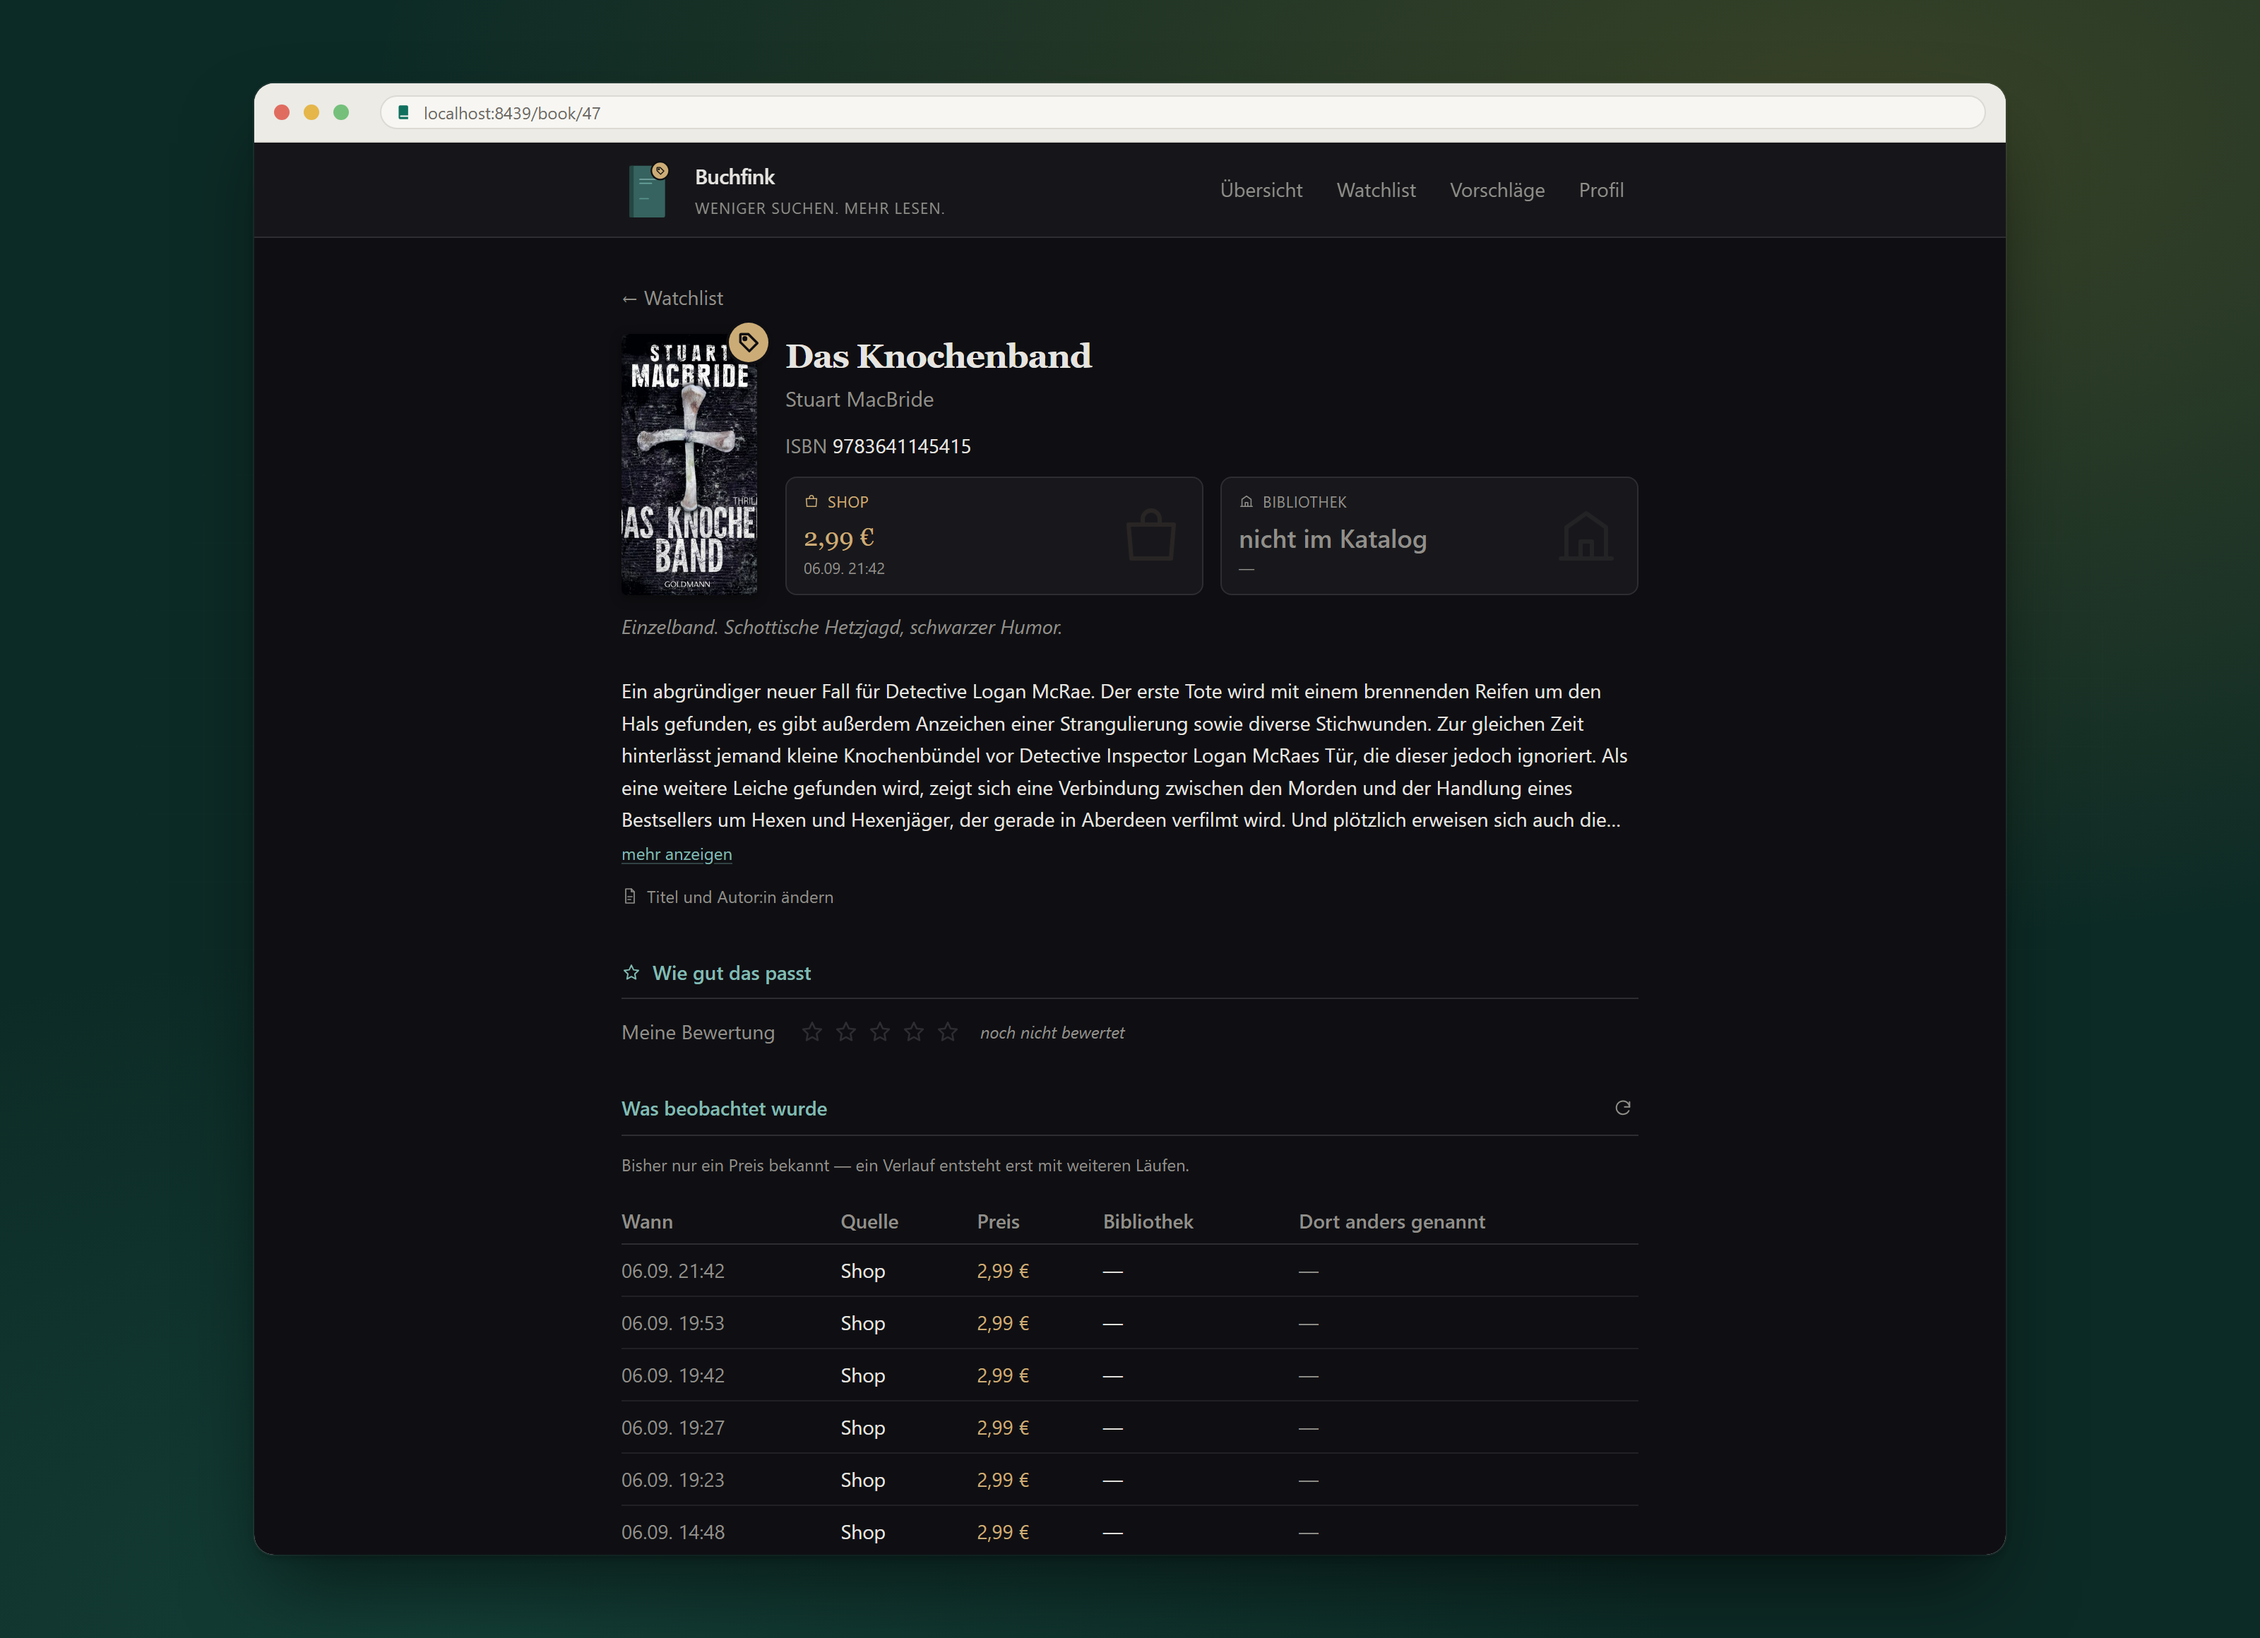
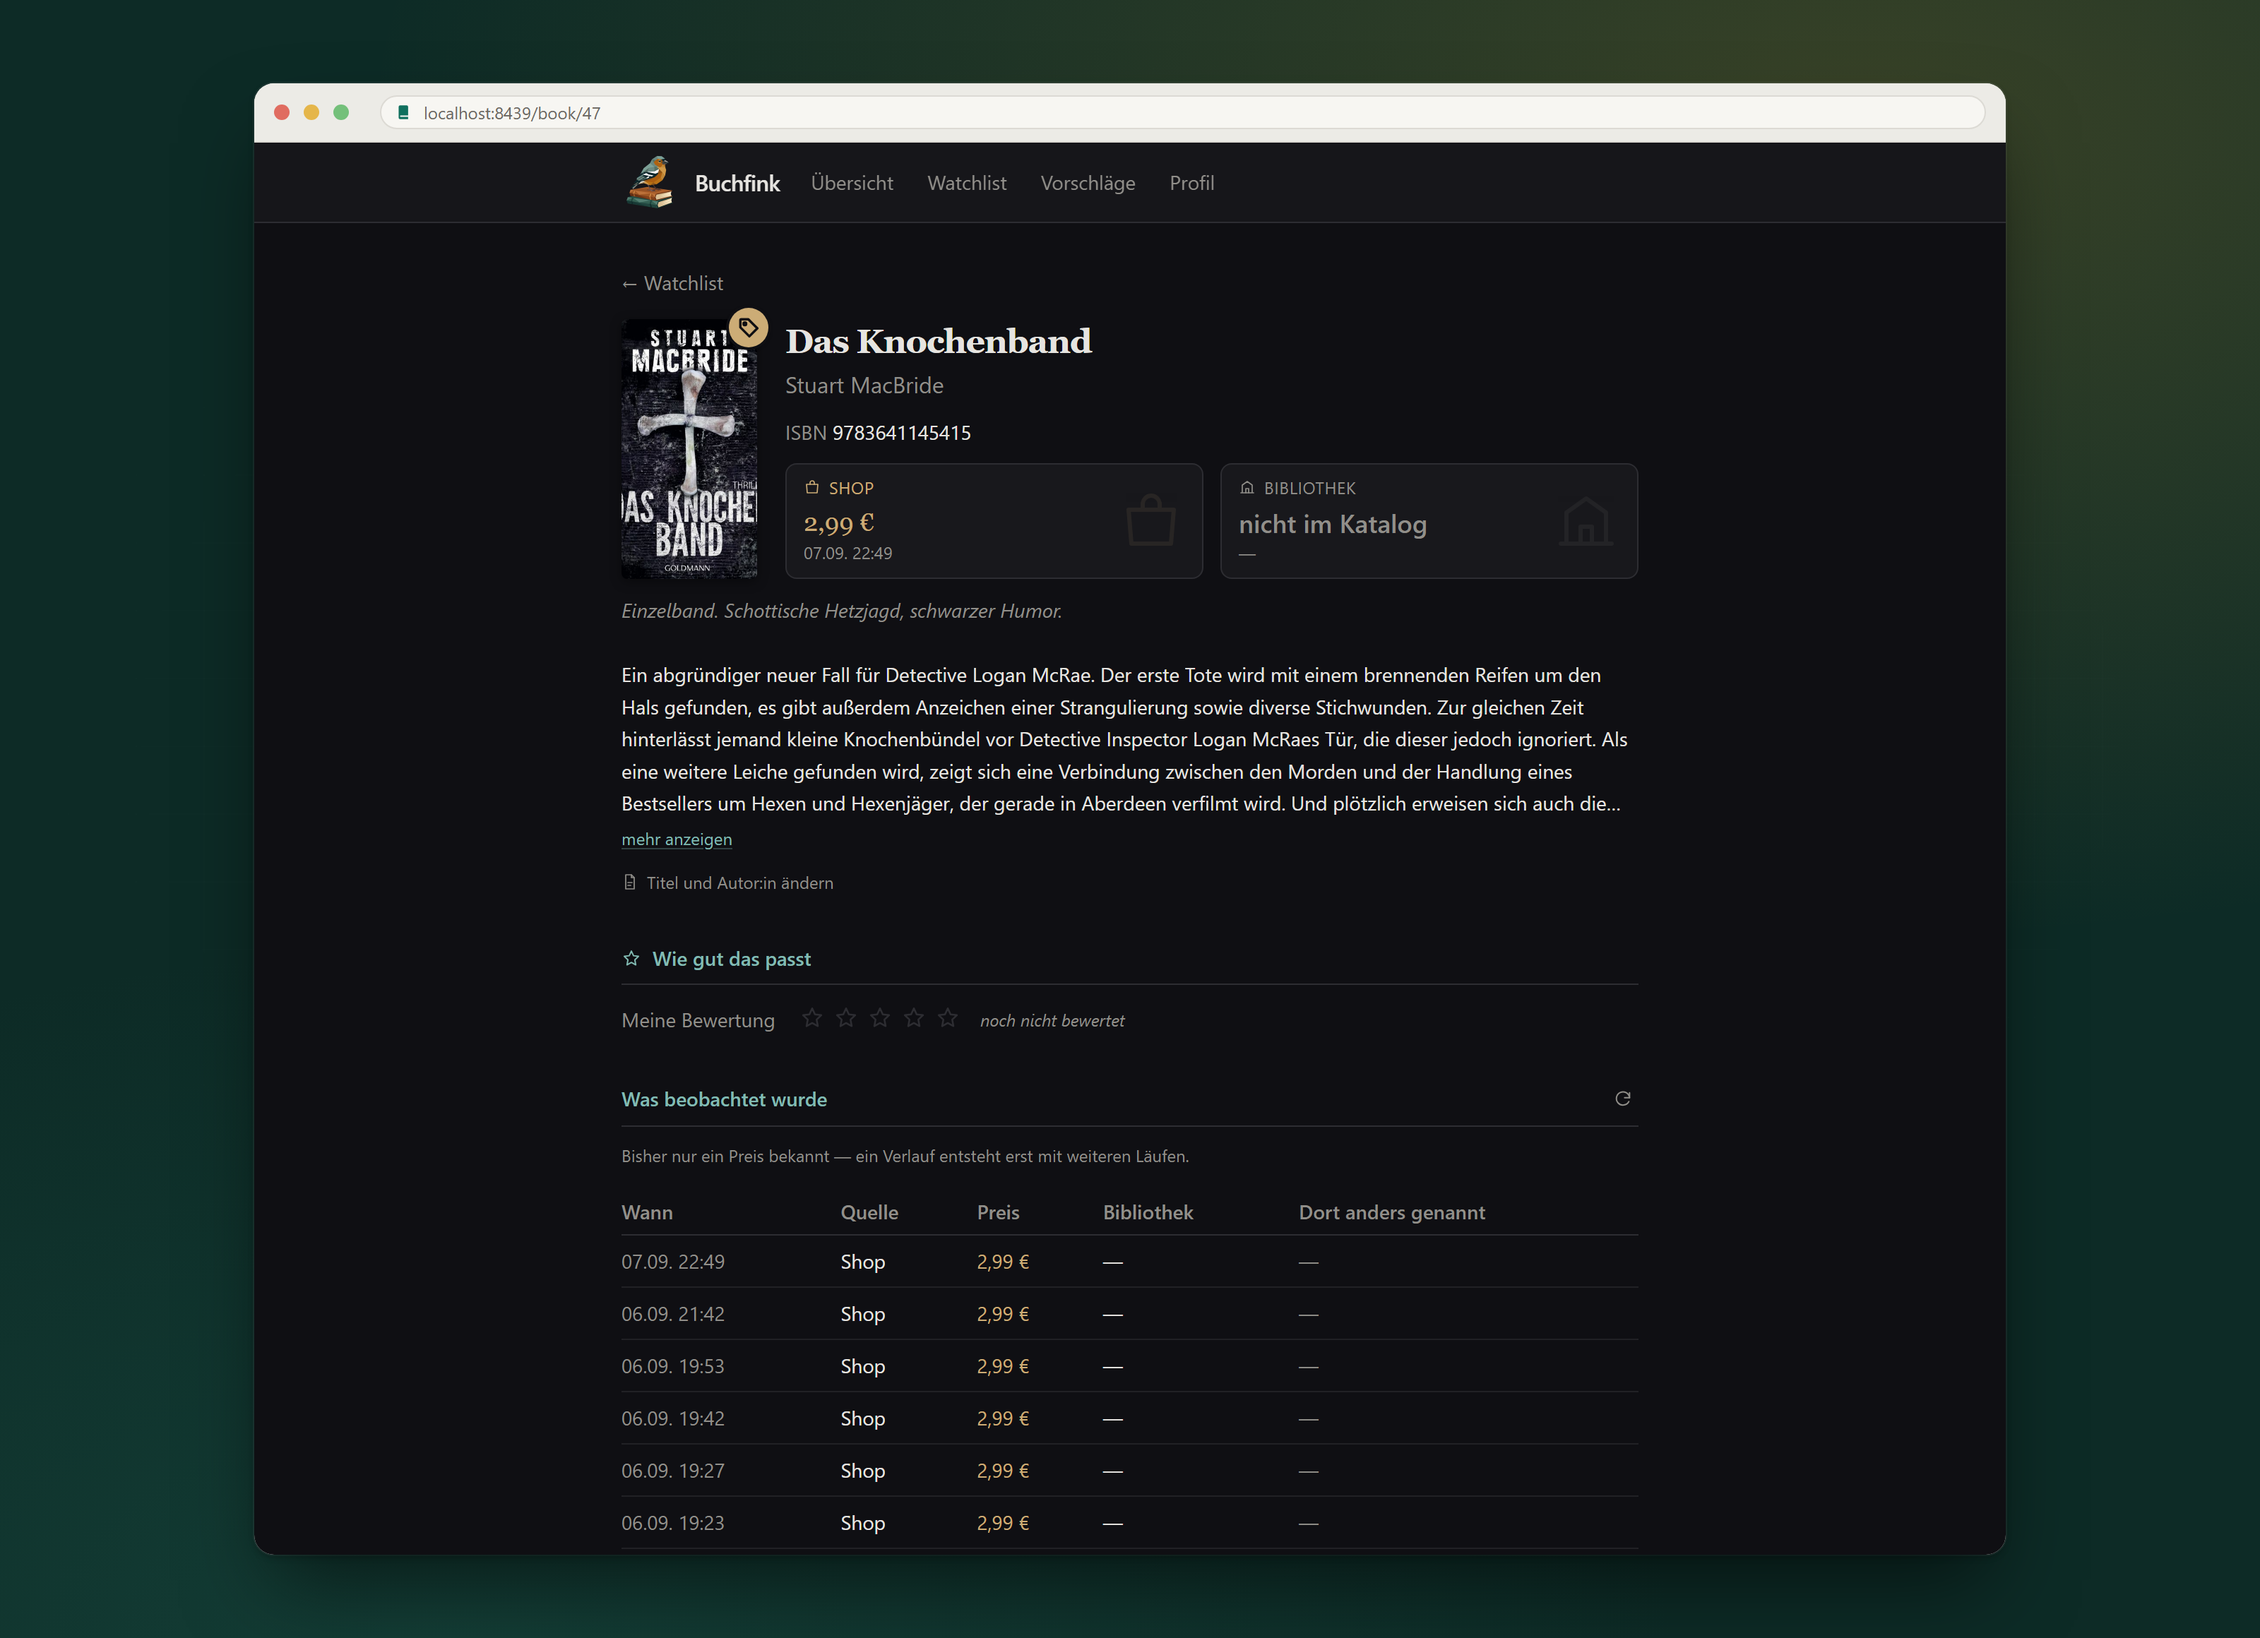
Ein gezeichnetes Titelbild statt eines Screenshots
hero.png (die Vorschlagsseite, aufgenommen von scripts/make_hero.py) weicht
hero.jpg — einem gezeichneten Buchfink, der die drei Schritte des Werkzeugs
zeigt: lesen, ohne zu suchen; kaufen, wenn es sich lohnt; Neues finden, das
passt.

Das Aufnahme-Skript bleibt vollstaendig nutzbar, nur umbenannt und um die
frueher stillschweigend entfernte Szene ergaenzt: make_hero.py ->
make_screenshots.py, die hero-Szene heisst jetzt vorschlaege (nach der
Seite, die sie zeigt, wie buchseite). Beide Szenen frisch aufgenommen zur
Kontrolle.

diff --git a/scripts/vorschlaege.html b/scripts/vorschlaege.html
@@ -2,14 +2,15 @@
 <html lang="de">
 <head>
 <meta charset="utf-8">
-<title>Titelbild</title>
+<title>Vorschläge</title>
 <!--
-  Die Szene für das Titelbild der README. Gebaut statt erzeugt: so ist sie
-  scharf in jeder Größe, zeigt die *echte* Oberfläche und lässt sich neu
-  aufnehmen, wenn sich die Seite ändert.
+  Die Szene für den Screenshot der Vorschlagsseite. War lange das Titelbild
+  der README, aufgenommen mit scripts/make_hero.py; das Titelbild ist jetzt
+  eine Illustration (docs/bilder/hero.jpg). Die Szene selbst tut weiter ihren
+  Dienst, nur unter ihrem eigenen Namen statt als "hero".
 
-  Aufnahme: scripts/make_hero.py (Chrome im Kopflos-Modus, keine neue
-  Abhängigkeit).
+  Aufnahme: scripts/make_screenshots.py vorschlaege (Chrome im Kopflos-Modus,
+  keine neue Abhängigkeit).
 
   Die Farben sind die der Anwendung: tiefes Grün als Raum, ein warmer
   bernsteinfarbener Lichtschein — grün = Bibliothek, bernstein = Shop.

diff --git a/scripts/buchseite.html b/scripts/buchseite.html
@@ -8,7 +8,7 @@
   scharf in jeder Größe, zeigt die *echte* Oberfläche und lässt sich neu
   aufnehmen, wenn sich die Seite ändert.
 
-  Aufnahme: scripts/make_hero.py buchseite (Chrome im Kopflos-Modus, keine neue
+  Aufnahme: scripts/make_screenshots.py buchseite (Chrome im Kopflos-Modus, keine neue
   Abhängigkeit).
 
   Die Farben sind die der Anwendung: tiefes Grün als Raum, ein warmer

diff --git a/scripts/make_screenshots.py b/scripts/make_screenshots.py
@@ -1,14 +1,14 @@
-"""Nimmt die Bilder der README auf.
+"""Nimmt die Screenshots der README auf.
 
-    uv run python scripts/make_hero.py            # das Titelbild
-    uv run python scripts/make_hero.py buchseite  # die Buchseite
+    uv run python scripts/make_screenshots.py vorschlaege
+    uv run python scripts/make_screenshots.py buchseite
 
 Voraussetzung: die Oberfläche läuft (``uv run python -m ebook_watchlist.web``).
 
-Gebaut statt erzeugt: die Szene ist ``scripts/hero.html``, aufgenommen wird
-sie mit dem Chrome, der ohnehin auf dem Rechner liegt. Kein Playwright, kein
-Browser-Download — eine neue Abhängigkeit für ein einziges Bild wäre teurer
-als der Nutzen.
+Gebaut statt erzeugt: jede Szene ist eine eigene HTML-Datei unter
+``scripts/``, aufgenommen wird sie mit dem Chrome, der ohnehin auf dem
+Rechner liegt. Kein Playwright, kein Browser-Download — eine neue
+Abhängigkeit für ein paar Bilder wäre teurer als der Nutzen.
 
 Das Bild zeigt die **echte** Oberfläche mit den echten Daten. Es ist damit
 immer so aktuell wie der letzte Aufruf dieses Skripts, und ändert sich die
@@ -29,7 +29,7 @@ WURZEL = Path(__file__).resolve().parent.parent
 #: Eine Szene je Bild, weil jede Seite eine andere Hoehe braucht; das
 #: Fensterbild drumherum ist dasselbe.
 SZENEN = {
-    "hero": ("hero.html", "hero.png", "/vorschlaege", 1600, 900),
+    "vorschlaege": ("vorschlaege.html", "vorschlaege.png", "/vorschlaege", 1600, 900),
     "buchseite": ("buchseite.html", "buchseite.png", "/book/47", 1600, 1160),
 }
 
@@ -65,7 +65,7 @@ def oberflaeche_laeuft(seite: str) -> bool:
 
 
 def main(argumente: list[str] | None = None) -> int:
-    name = (argumente or sys.argv[1:] or ["hero"])[0]
+    name = (argumente or sys.argv[1:] or ["buchseite"])[0]
     if name not in SZENEN:
         print(f"unbekannte Szene {name!r} — bekannt: {', '.join(SZENEN)}", file=sys.stderr)
         return 2

diff --git a/docs/reviews/design-review.md b/docs/reviews/design-review.md
@@ -71,7 +71,7 @@ war nicht die Höhe, sondern 143 px Leerraum zwischen Betrag und Symbol.
 | Sieben Schriftgrößen | **Behoben in `2f02582`** — 12/14/16/18/24, alles Tailwind-Stufen. Grundtext von 15 auf 16 px. |
 | Zeilenlänge auf dem Desktop | **Behoben in `3ca6e27`** — `max-w-prose` für den Klappentext. |
 | Zwei Schriften für gleichwertige Werte in den Kacheln | **Offen.** Preis in Serif-Gold, „ausleihbar" in Sans-Petrol. Kein Defekt, eine Frage des Geschmacks. |
-| README-Titelbild veraltet | **Offen, gehört dir.** `make_hero.py` fotografiert die laufende Oberfläche mit **echten** Daten; ein Titelbild mit erfundenen Büchern wäre schlechter als ein veraltetes. |
+| README-Screenshot veraltet | **Offen, gehört dir.** `make_screenshots.py` fotografiert die laufende Oberfläche mit **echten** Daten; ein Titelbild mit erfundenen Büchern wäre schlechter als ein veraltetes. |
 
 ## Nebenher gefunden
 

diff --git a/README.md b/README.md
@@ -1,5 +1,5 @@
 <p align="center">
-  <img src="docs/bilder/hero.png" alt="Die Vorschlagsseite: Funde mit Cover, Sternen und einer Zeile, warum sie in Frage kommen" width="900">
+  <img src="docs/bilder/hero.jpg" alt="Ein Buchfink zeigt drei Schritte: lesen, ohne zu suchen; kaufen, wenn es sich lohnt; Neues finden, das zu dir passt" width="900">
 </p>
 
 # Buchfink
@@ -263,10 +263,11 @@ als ADR unter [docs/adr/](docs/adr) festgehalten; die teuersten Fehler dieses
 Projekts waren plausibel klingende Annahmen, die niemand gemessen hatte
 ([docs/offene-punkte.md](docs/offene-punkte.md), Abschnitt 3).
 
-Das Titelbild dieser Datei wird aus der laufenden Oberfläche aufgenommen:
+Der Screenshot der Buchseite oben wird aus der laufenden Oberfläche
+aufgenommen:
 
 ```bash
-uv run python scripts/make_hero.py
+uv run python scripts/make_screenshots.py buchseite
 ```
 
 ## Dokumentation
